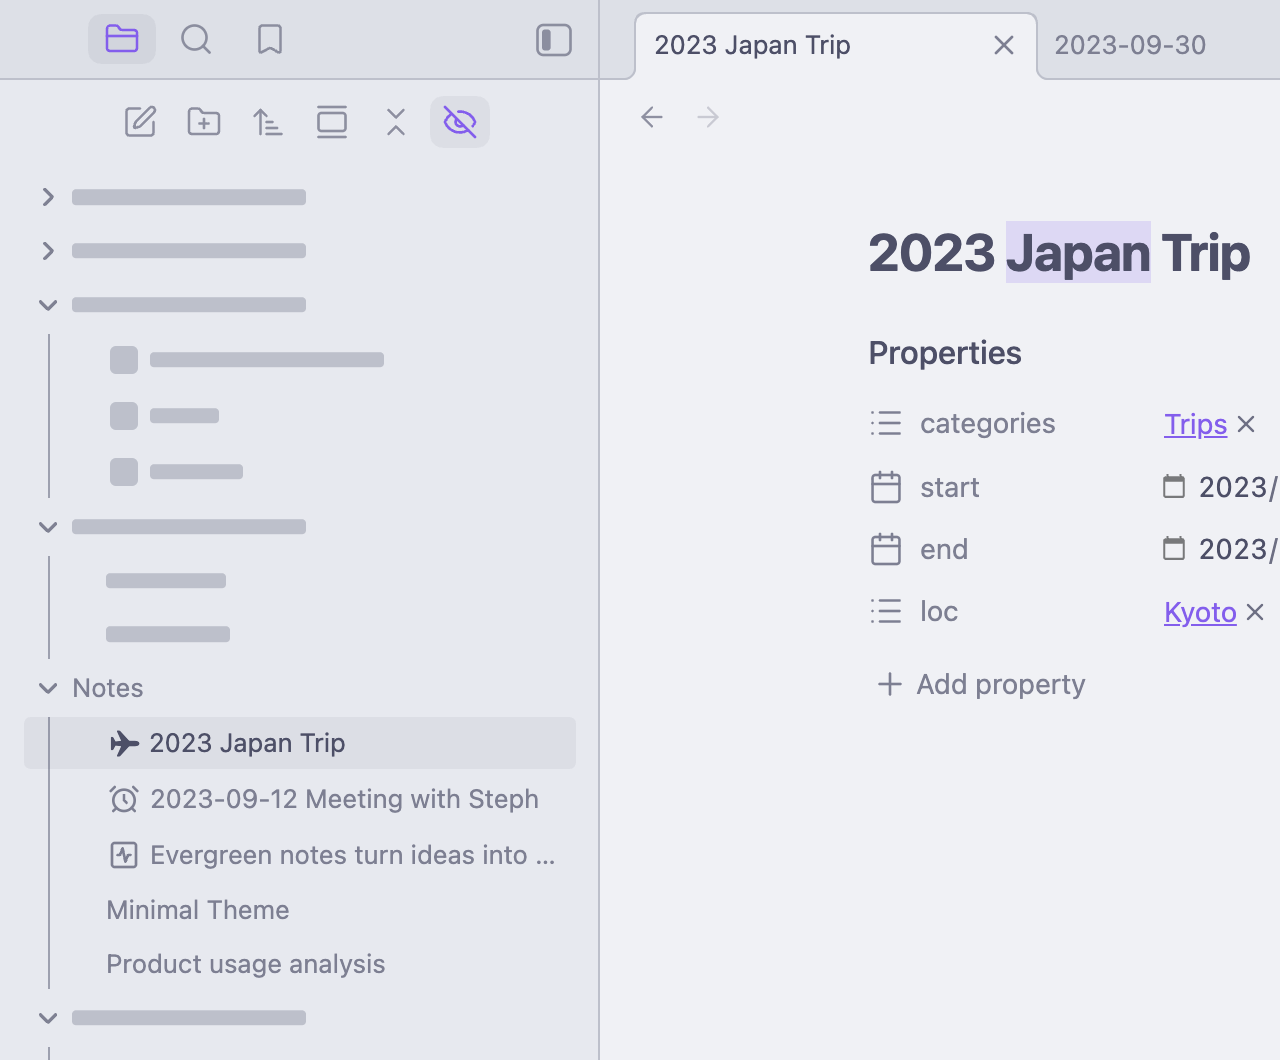
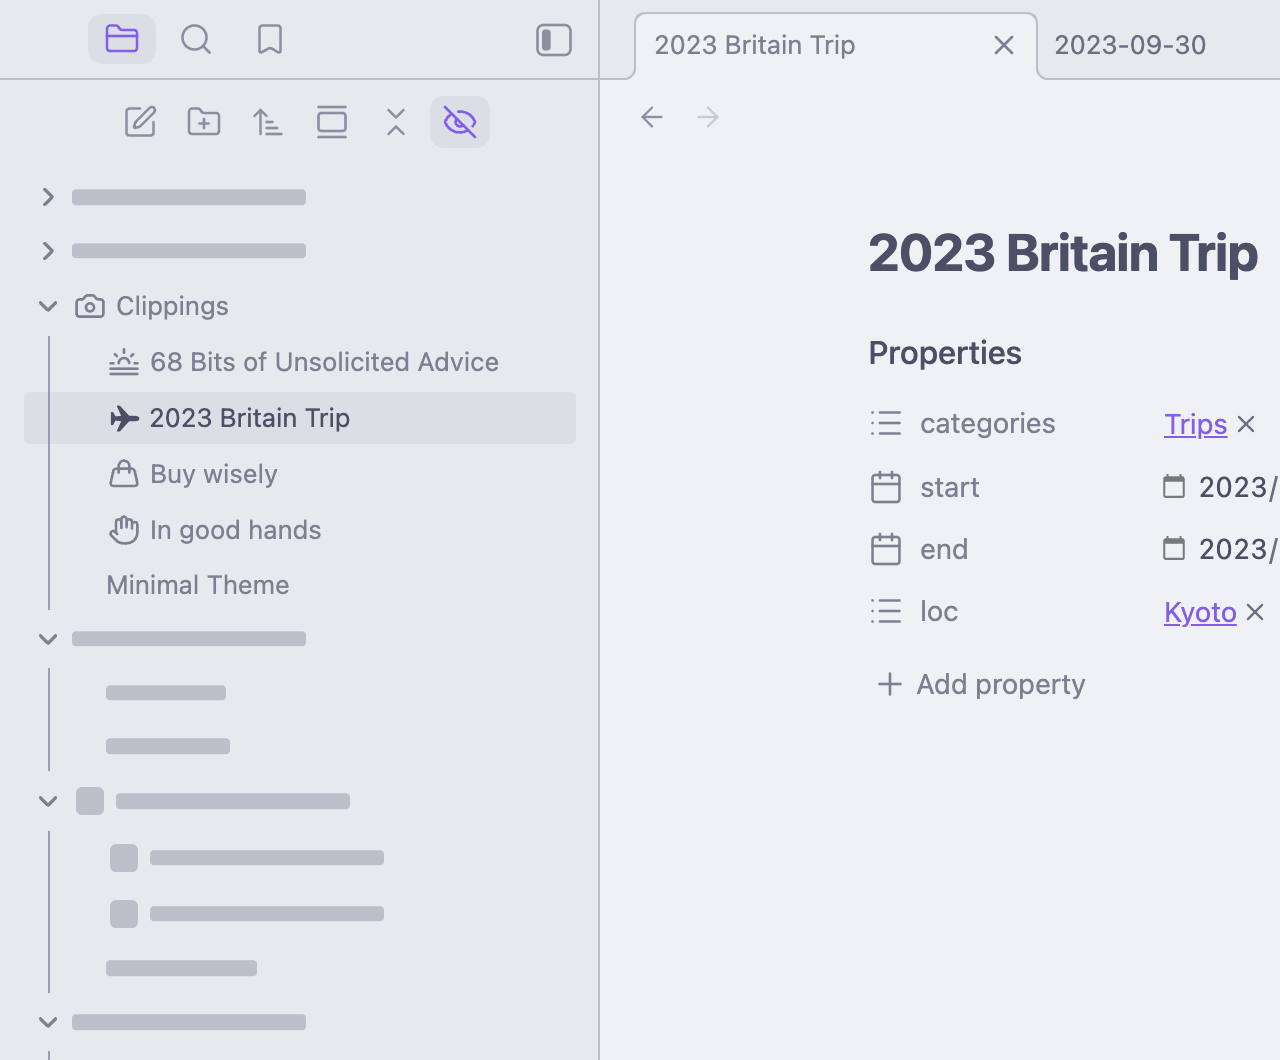
Retake the screenshot
The note in the old shot has since been renamed, and the folder it lives
in changed with it. Reframed on Clippings, which now carries more icons
and so shows the placeholder tiles more clearly — including a folder's
own icon becoming a tile.

diff --git a/README.md b/README.md
@@ -5,7 +5,7 @@ English · [简体中文](README.zh-CN.md)
 An Obsidian plugin. While you are working in a folder, that folder stays
 readable and everything else in the file explorer drops behind skeleton bars.
 
-![the file explorer with the Notes folder readable and every other row reduced to skeleton bars](docs/screenshot.png)
+![the file explorer with the Clippings folder readable and every other row reduced to skeleton bars](docs/screenshot.png)
 
 The folder is picked automatically from the file you have open — there is
 nothing to select and nothing to remember to turn off when you move on. Open a

diff --git a/README.zh-CN.md b/README.zh-CN.md
@@ -5,7 +5,7 @@
 一个 Obsidian 插件。当你在某个文件夹里工作时，这个文件夹保持可读，文件列表中的
 其他内容全部退到骨架条后面。
 
-![文件列表中 Notes 文件夹保持可读，其余每一行都变成骨架条](docs/screenshot.png)
+![文件列表中 Clippings 文件夹保持可读，其余每一行都变成骨架条](docs/screenshot.png)
 
 聚焦哪个文件夹是根据你当前打开的文件自动判断的 —— 不用手动选，也不用记得在换
 地方时关掉。在别处打开一篇笔记，骨架条就跟着你过去。
